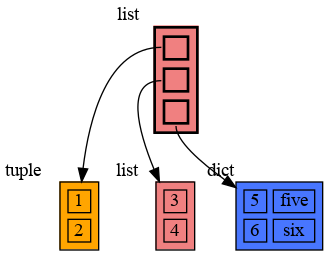
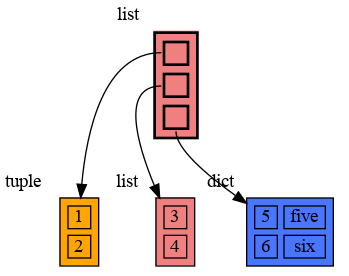
giving direct access to graphviz graph_attr, node_attr, edge_attr

Changed region(s): [[0.1529, 0.0824, 1.0, 0.9882], [0.0, 0.6314, 0.1223, 0.7137], [0.3364, 0.0275, 0.4281, 0.0824]]

diff --git a/images/example3.py b/images/example3.py
@@ -1,8 +1,11 @@
 import memory_graph
 
 memory_graph.graphviz_nodes.layout_vertical = False                       # draw lists,tuples,sets,... horizontally
-memory_graph.graphviz_nodes.type_category_to_color_map['list'] = 'yellow' # change color of 'list' types
-memory_graph.rewrite_to_node.reduce_reference_types.remove(int)           # draw references to 'int' types
+memory_graph.graphviz_nodes.type_category_to_color_map['list'] = 'yellow' # change color of 'list' type
+memory_graph.graphviz_nodes.spacing=15                                    # more spacing in each node
+memory_graph.graphviz_nodes.graph_attr['ranksep']='1.2'                   # more vertical separation
+memory_graph.graphviz_nodes.graph_attr['nodesep']='1.2'                   # more horizontal separation
+memory_graph.rewrite_to_node.reduce_reference_types.remove(int)           # draw references to 'int' type
 
 my_list = [10, 20, 10]
 

diff --git a/memory_graph/graphviz_nodes.py b/memory_graph/graphviz_nodes.py
@@ -14,7 +14,9 @@ uncategorized_color="red"
 padding=0
 spacing=5
 empty_label="&nbsp;&nbsp;"
-
+graph_attr={'concentrate':'true'}
+node_attr={'shape':'plaintext'}
+edge_attr={}
 
 taken_children=set()
 
@@ -118,6 +120,9 @@ def create_graph_recursive(all_nodes,node_index,memo,graph):
 def create_graph(all_nodes):
     global taken_children
     taken_children=set()
-    graph=graphviz.Digraph('memory_graph', graph_attr={'concentrate':'true'}, node_attr={'shape':'none', 'margin':'0'})
+    graph=graphviz.Digraph('memory_graph',
+                           graph_attr=graph_attr,
+                           node_attr=node_attr,
+                           edge_attr=edge_attr)
     create_graph_recursive(all_nodes,0,set(),graph)
     return graph

diff --git a/README.md b/README.md
@@ -95,6 +95,12 @@ Configure how the nodes of the graph are visualized with:
   - amount of padding for node cells
 - ***memory_graph.graphviz_nodes.spacing*** : int
   - amount of spacing for node cells
+- ***memory_graph.graphviz_nodes.graph_attr*** : dict
+  - allows to set various [graphviz graph attributes](https://graphviz.org/docs/graph/)
+- ***memory_graph.graphviz_nodes.node_attr*** : dict
+  - allows to set various [graphviz node attributes](https://graphviz.org/docs/nodes/)
+- ***memory_graph.graphviz_nodes.edge_attr*** : dict
+  - allows to set various [graphviz edges attributes](https://graphviz.org/docs/edges/)
 
 See for color names: [graphviz colors](https://graphviz.org/doc/info/colors.html)
 
@@ -134,6 +140,9 @@ With configuration:
 ```
 memory_graph.graphviz_nodes.layout_vertical = False                       # draw lists,tuples,sets,... horizontally
 memory_graph.graphviz_nodes.type_category_to_color_map['list'] = 'yellow' # change color of 'list' type
+memory_graph.graphviz_nodes.spacing=15                                    # more spacing in each node
+memory_graph.graphviz_nodes.graph_attr['ranksep']='1.2'                   # more vertical separation
+memory_graph.graphviz_nodes.graph_attr['nodesep']='1.2'                   # more horizontal separation
 memory_graph.rewrite_to_node.reduce_reference_types.remove(int)           # draw references to 'int' type
 ```
 
